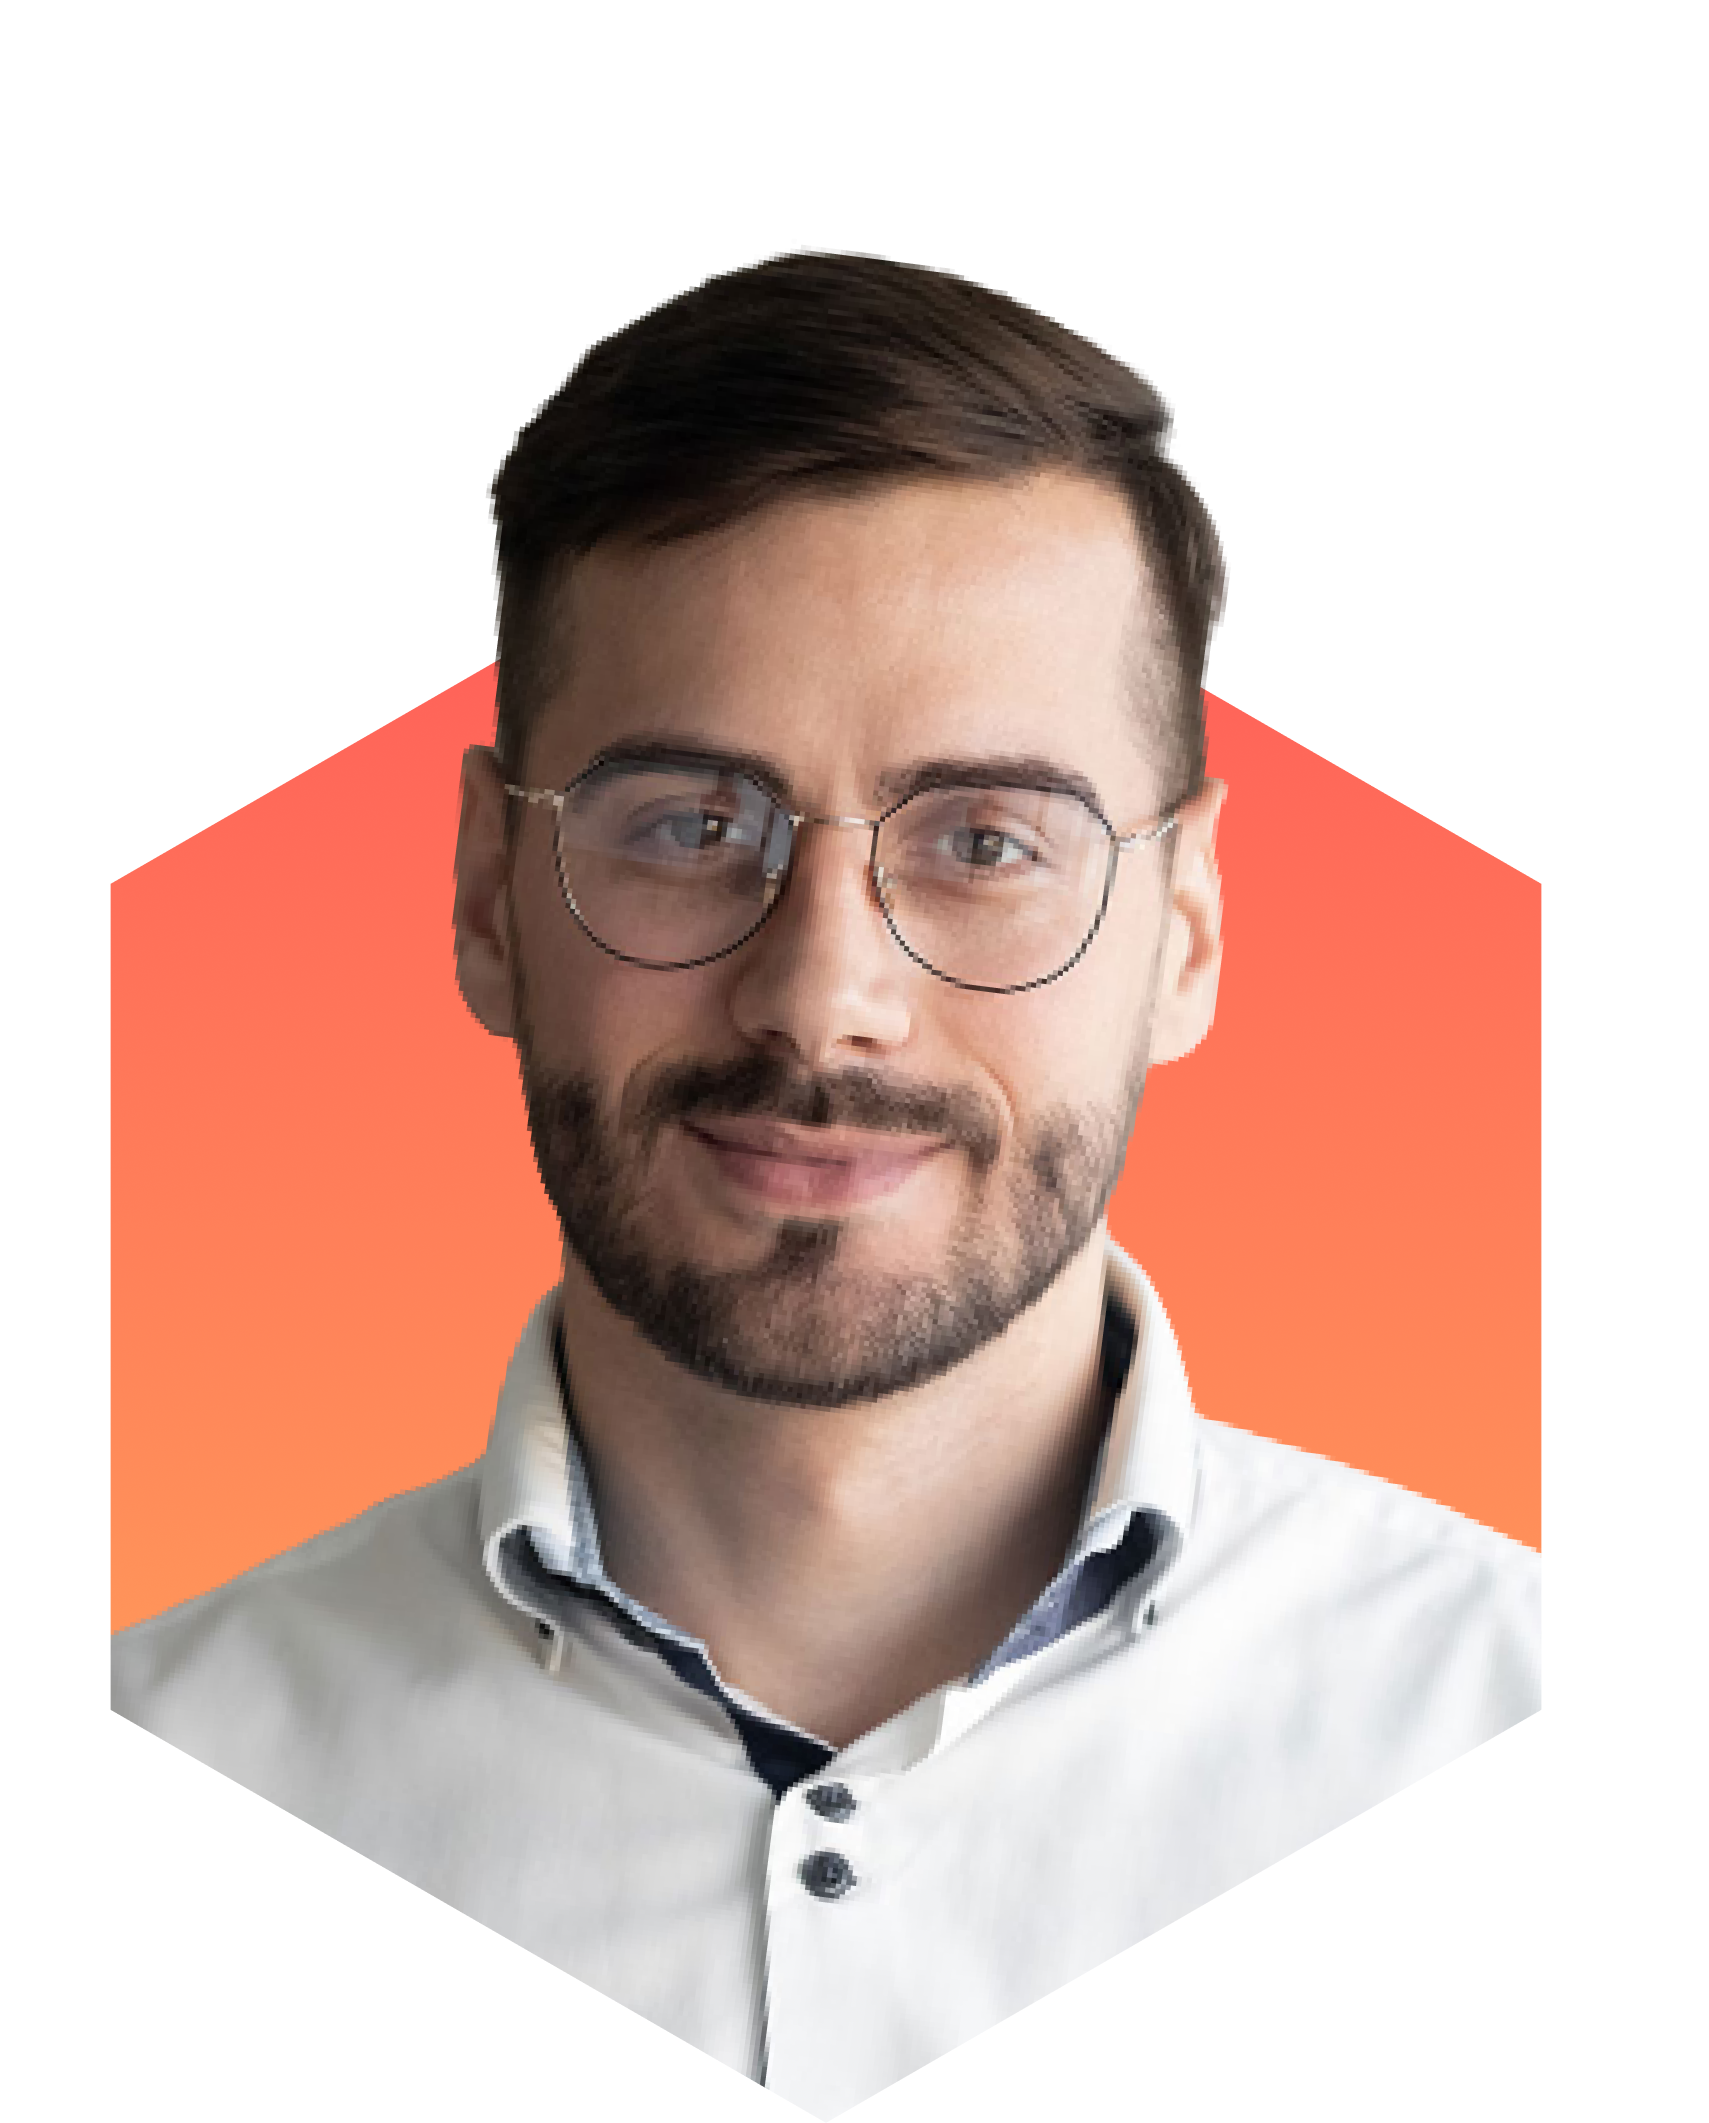
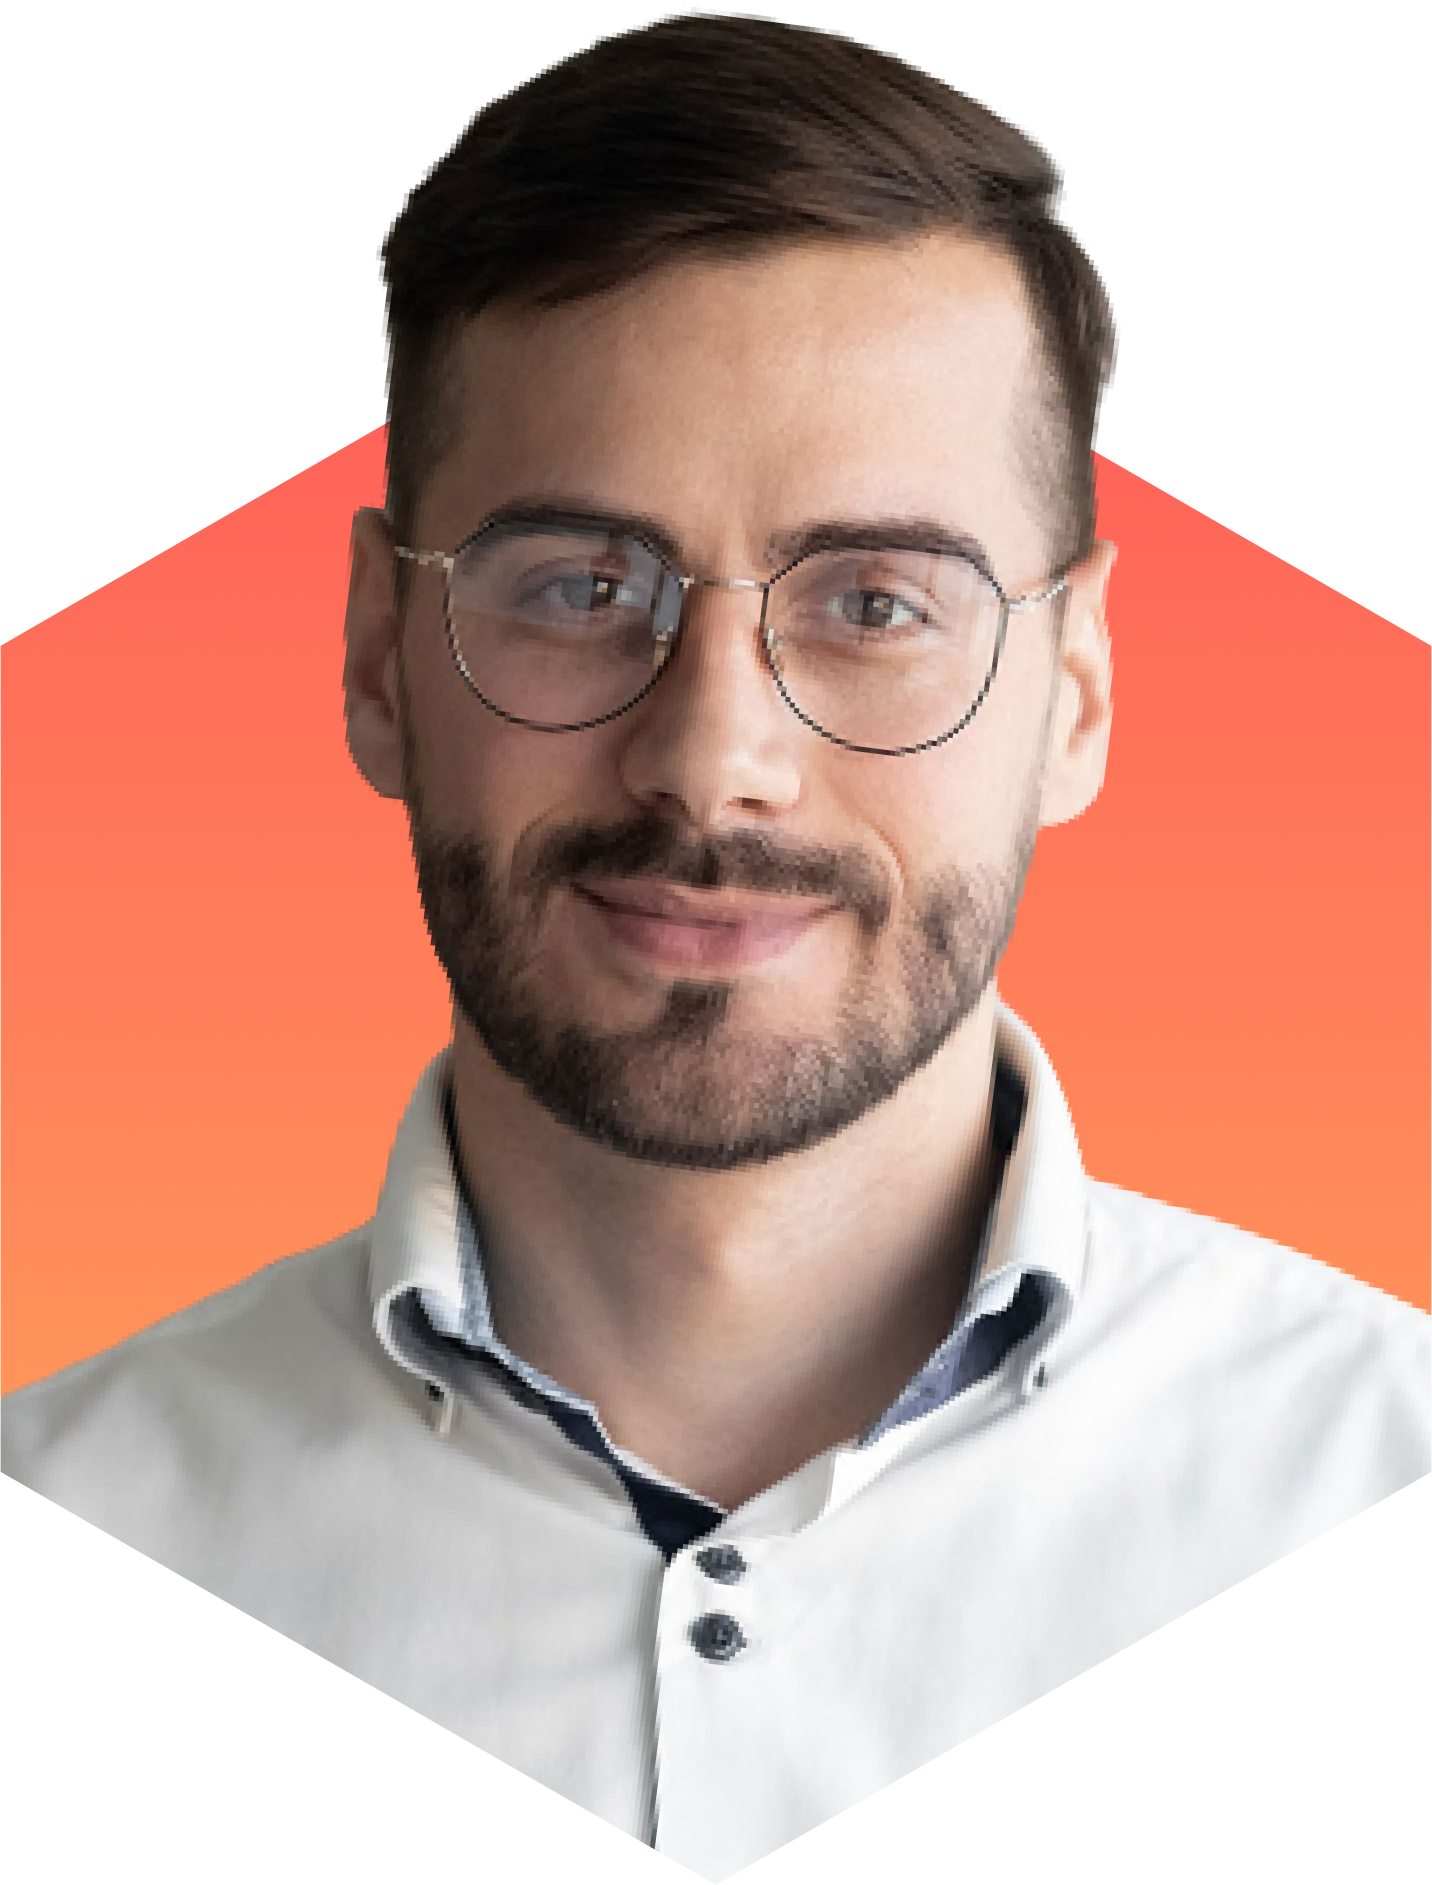
hero part add

diff --git a/index.html b/index.html
@@ -15,17 +15,24 @@
 </head>
 
 <body>
-    <section class="headig-section">
-        <div>
-            <div class="left-border">
-                <h1> Stay Focused on </h1>
-                <h1 class="mission-color"> Mission 2022</h1>
+    <section class="heroPart">
+        <div class="heroPartContant">
+            <div class="content-width">
+                <div class="left-border">
+                    <h1> Stay Focused on </h1>
+                    <h1 class="mission-color"> Mission 2022</h1>
+                </div>
+                <p>This is Md. Mazharul Islam Sohag. I learning Full Stack Web Development. I will be able to a web
+                    Developer. I want to achivev my mission and vision 2022 </p>
+                <div class="click-button">
+                    <a href="#">Know More</a>
+                </div>
+                <p>Scroll down to explore more about us</p>
             </div>
-            <p>This is Md. Mazharul Islam Sohag. I learning Full Stack Web Development. I will be able to a web
-                Developer. I want to achivev my mission and vision 2022 </p>
-            <div class="click-button">
-                <a href="#">Know More</a>
+            <div class="content-width hero-img">
+                <img src="images/person-3.png" alt="">
             </div>
+
         </div>
     </section>
 </body>

diff --git a/style.css b/style.css
@@ -4,25 +4,36 @@ body {
     font-family: 'Playfair Display', serif;
     font-family: 'Poppins', sans-serif;
     font-family: 'Source Sans Pro', sans-serif;
-    /* font-size: 20px; */
+    margin: 0;
+    padding: 0;
 }
 h1 {
     font-size: 40px;    
     margin: 0;
 }
-.headig-section {
-
+.heroPart {
+    margin: 20px 5%;
+}
+.heroPartContant {
+    display: flex;   
+    justify-content: space-between;
+}
+.heroPartContant img {
+    width: 40%;    
+}
+.hero-img {
+    text-align: center;
 }
 .mission-color {
     color: #FFAD5A;
 }
 .left-border {
     border-left: 2px solid #FF5959;
-    padding: 0 10px;
+    padding: 0 5px;
 }
 .click-button a {
     background-color: #FF5959;
-    padding: 15px 25px;
+    padding: 5px 20px;
     border-radius: 5px;
     text-decoration: none;
     color: #fff;
@@ -30,4 +41,7 @@ h1 {
 }
 .click-button {
     margin-top: 30px;
+}
+.content-width {
+    width: 50%;
 }
